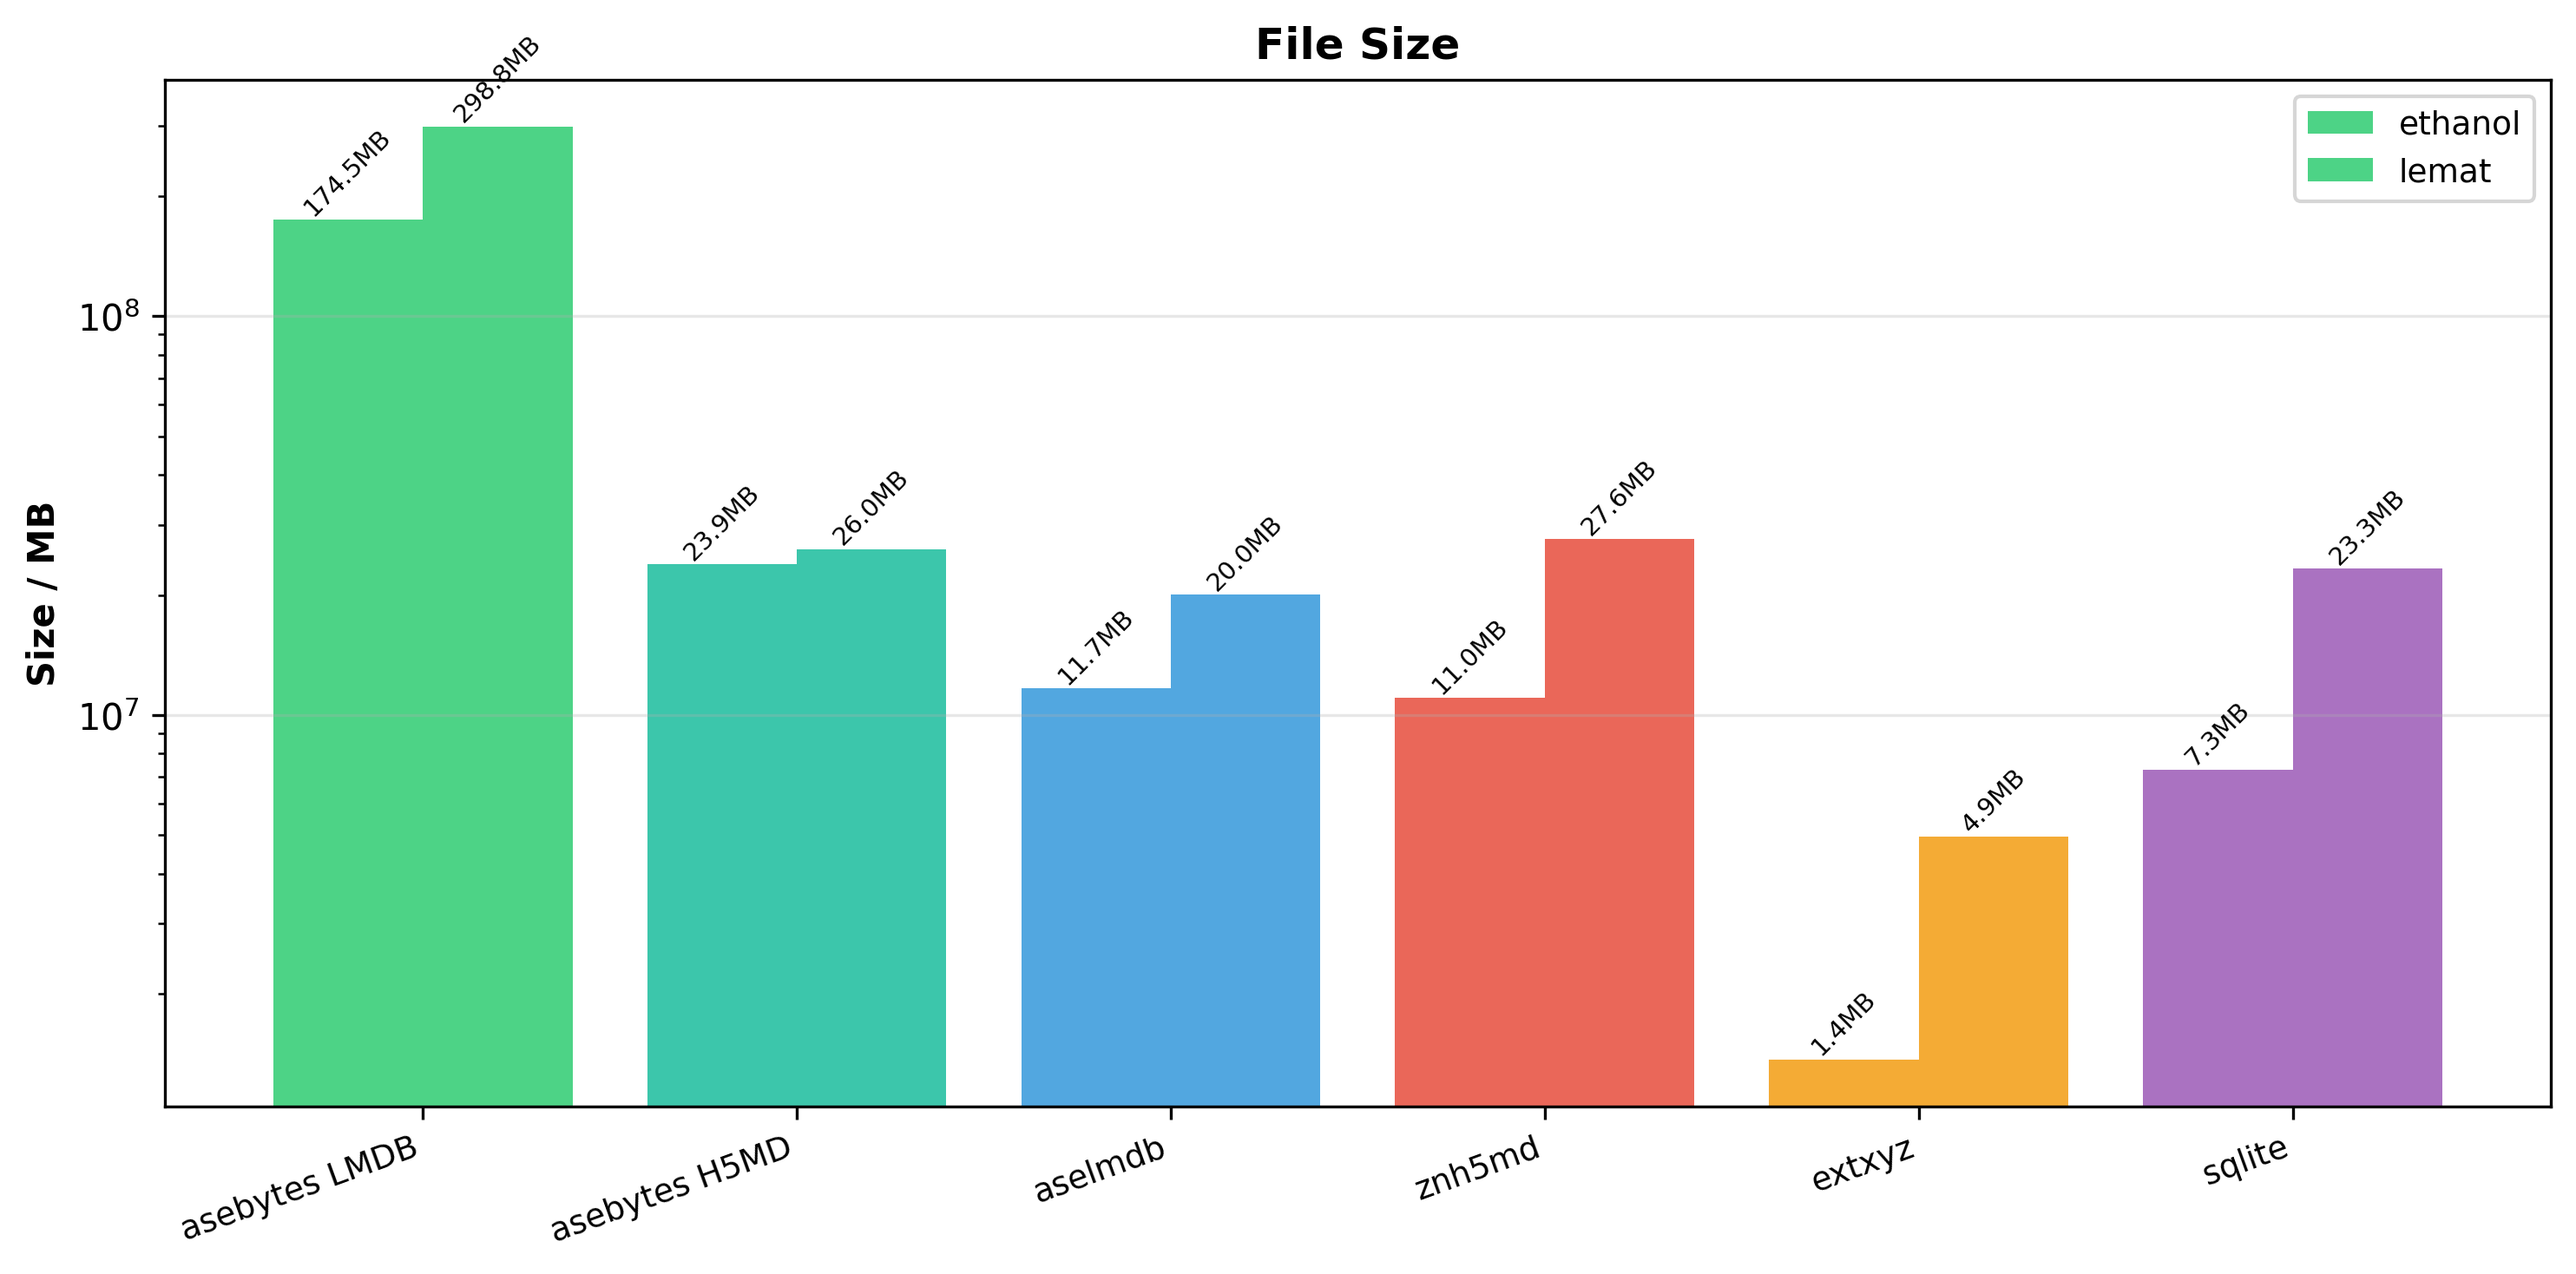
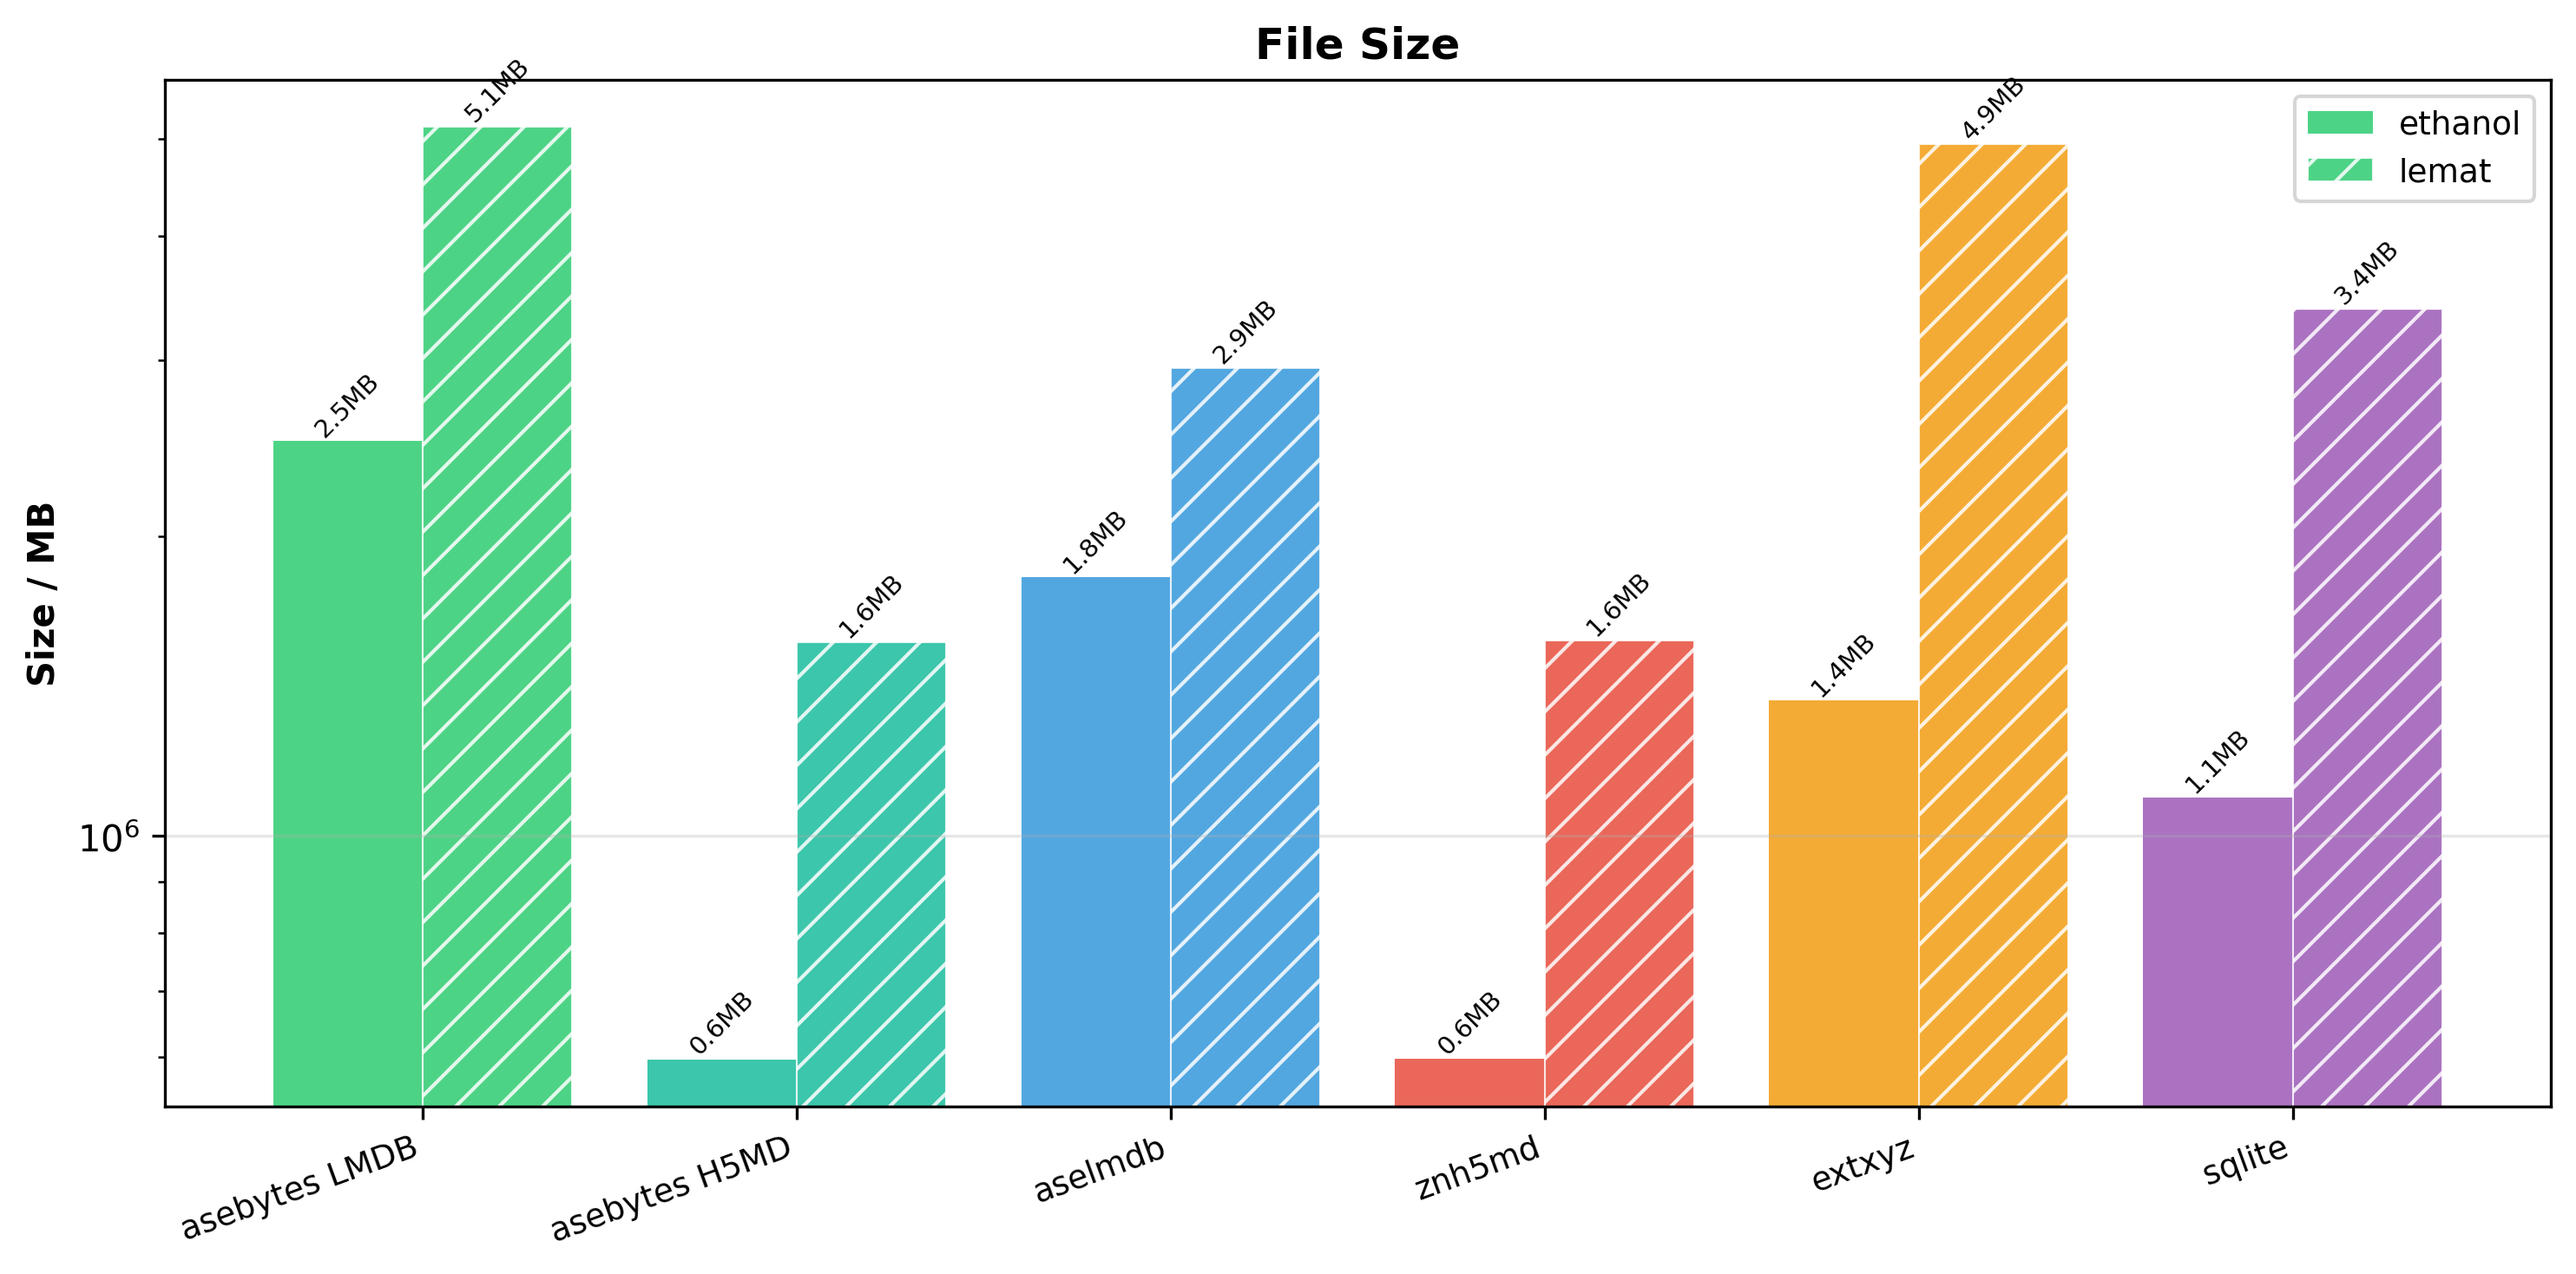
fix: correct file size benchmark, hatched dataset bars, h5py column label
- Fix file size benchmark writing to same path across rounds (inflated
  sizes ~5x). Use unique path per iteration like write benchmarks.
- Add hatching to distinguish ethanol (solid) vs lemat (hatched) bars.
- Rename column access znh5md → h5py since it uses h5py directly.
- Simplify download script to use list(src[:1000]).
- Add HDF5 compression note and LeMat-Traj snippet to README.

diff --git a/tests/test_benchmark_file_size.py b/tests/test_benchmark_file_size.py
@@ -1,6 +1,6 @@
 """Benchmark file size across backends.
 
-Writes each dataset to each backend and reports the output size in bytes.
+Writes each dataset once to each backend and reports the output size in bytes.
 Uses pytest-benchmark extra_info to store the size alongside timing data.
 
 Backends: asebytes LMDB, asebytes H5MD, aselmdb, znh5md, extxyz, sqlite.
@@ -8,6 +8,7 @@ Datasets: ethanol (1000 small molecules), lemat (1000 periodic structures).
 """
 
 import os
+import uuid
 
 import ase.io
 import pytest
@@ -42,9 +43,9 @@ def _dir_size(path: str) -> int:
 @pytest.mark.benchmark(group="file_size")
 def test_size_asebytes_lmdb(benchmark, dataset, tmp_path):
     name, frames = dataset
-    p = tmp_path / f"sz_{name}.lmdb"
 
     def write_and_measure():
+        p = tmp_path / f"sz_{name}_{uuid.uuid4().hex}.lmdb"
         db = ASEIO(str(p))
         db.extend(frames)
         return _dir_size(str(p))
@@ -56,9 +57,9 @@ def test_size_asebytes_lmdb(benchmark, dataset, tmp_path):
 @pytest.mark.benchmark(group="file_size")
 def test_size_asebytes_h5md(benchmark, dataset, tmp_path):
     name, frames = dataset
-    p = tmp_path / f"sz_{name}.h5"
 
     def write_and_measure():
+        p = tmp_path / f"sz_{name}_{uuid.uuid4().hex}.h5"
         db = ASEIO(str(p))
         db.extend(frames)
         return _dir_size(str(p))
@@ -70,9 +71,9 @@ def test_size_asebytes_h5md(benchmark, dataset, tmp_path):
 @pytest.mark.benchmark(group="file_size")
 def test_size_aselmdb(benchmark, dataset, tmp_path):
     name, frames = dataset
-    p = tmp_path / f"sz_{name}_aselmdb.lmdb"
 
     def write_and_measure():
+        p = tmp_path / f"sz_{name}_{uuid.uuid4().hex}_aselmdb.lmdb"
         db = connect(str(p), type="aselmdb")
         for mol in frames:
             db.write(mol)
@@ -87,9 +88,9 @@ def test_size_znh5md(benchmark, dataset, tmp_path):
     import znh5md
 
     name, frames = dataset
-    p = tmp_path / f"sz_{name}_znh5md.h5"
 
     def write_and_measure():
+        p = tmp_path / f"sz_{name}_{uuid.uuid4().hex}_znh5md.h5"
         io = znh5md.IO(filename=str(p))
         io.extend(frames)
         return _dir_size(str(p))
@@ -101,9 +102,9 @@ def test_size_znh5md(benchmark, dataset, tmp_path):
 @pytest.mark.benchmark(group="file_size")
 def test_size_extxyz(benchmark, dataset, tmp_path):
     name, frames = dataset
-    p = tmp_path / f"sz_{name}.extxyz"
 
     def write_and_measure():
+        p = tmp_path / f"sz_{name}_{uuid.uuid4().hex}.extxyz"
         ase.io.write(str(p), frames, format="extxyz")
         return _dir_size(str(p))
 
@@ -114,9 +115,9 @@ def test_size_extxyz(benchmark, dataset, tmp_path):
 @pytest.mark.benchmark(group="file_size")
 def test_size_sqlite(benchmark, dataset, tmp_path):
     name, frames = dataset
-    p = tmp_path / f"sz_{name}_sqlite.db"
 
     def write_and_measure():
+        p = tmp_path / f"sz_{name}_{uuid.uuid4().hex}_sqlite.db"
         db = connect(str(p), type="db")
         for mol in frames:
             db.write(mol)

diff --git a/docs/visualize_benchmarks.py b/docs/visualize_benchmarks.py
@@ -153,6 +153,9 @@ def _make_grouped_bar_chart(
         n_datasets,
     )
 
+    # First dataset: solid fill. Second dataset: hatched overlay.
+    hatches = ["", "//"]
+
     for i, ds in enumerate(datasets):
         vals = [data[ds].get(b, {}).get(value_key, 0) for b in backends]
         errs = (
@@ -169,6 +172,9 @@ def _make_grouped_bar_chart(
             capsize=3,
             alpha=0.85,
             color=colors,
+            hatch=hatches[i % len(hatches)],
+            edgecolor="white" if i > 0 else "none",
+            linewidth=0.5,
             label=ds,
         )
         # Value labels

diff --git a/scripts/download_benchmark_data.py b/scripts/download_benchmark_data.py
@@ -33,16 +33,8 @@ def main() -> None:
         "optimade://LeMaterial/LeMat-Traj",
         split="train",
         name="compatible_pbe",
-        streaming=True,
     )
-
-    frames = []
-    for i, atoms in enumerate(src):
-        frames.append(atoms)
-        if (i + 1) % 100 == 0:
-            print(f"  {i + 1} frames downloaded")
-        if i + 1 >= 1000:
-            break
+    frames = list(src[:1000])
 
     print(f"Writing {len(frames)} frames to {out_path}...")
     db = ASEIO(str(out_path))

diff --git a/README.md b/README.md
@@ -145,7 +145,12 @@ db = ASEIO(MyBackend())
 
 ## Benchmarks
 
-1000 frames each on two datasets — ethanol conformers (small molecules, fixed size) and LeMat-Traj (periodic structures, variable atom counts). All frames include energy, forces, and stress. Compared against aselmdb, znh5md, extxyz, and SQLite.
+1000 frames each on two datasets — ethanol conformers (small molecules, fixed size) and [LeMat-Traj](https://huggingface.co/datasets/LeMaterial/LeMat-Traj) (periodic structures, variable atom counts). All frames include energy, forces, and stress. Compared against aselmdb, znh5md, extxyz, and SQLite.
+
+```python
+# LeMat-Traj benchmark data
+lemat = list(ASEIO("optimade://LeMaterial/LeMat-Traj", split="train", name="compatible_pbe")[:1000])
+```
 
 > **Note:** HDF5 performance is heavily influenced by compression and chunking settings. Both asebytes H5MD and znh5md use gzip compression by default, which reduces file size at the cost of read/write speed.
 
